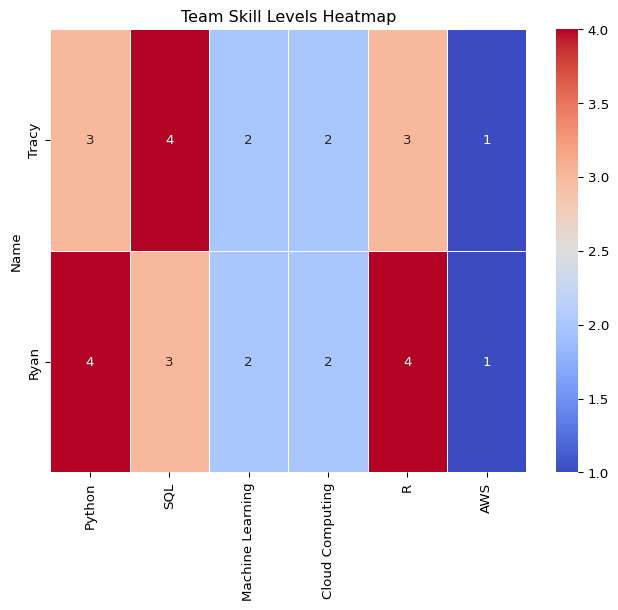
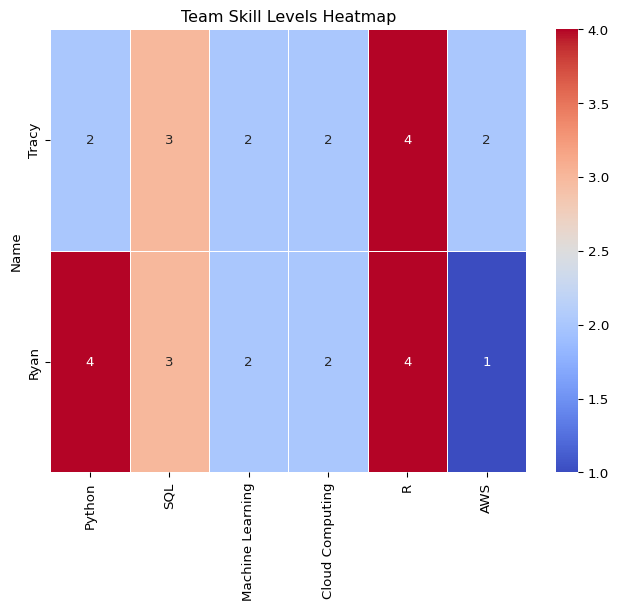
Edited skill_gap_analysis.qmd

Changed region(s): [[0.5841, 0.0311, 0.8608, 0.4361], [0.0615, 0.0311, 0.3382, 0.4361]]

diff --git a/_site/skill_gap_analysis.html b/_site/skill_gap_analysis.html
@@ -190,12 +190,12 @@ ul.task-list li input[type="checkbox"] {
 <tbody>
 <tr class="odd">
 <td data-quarto-table-cell-role="th">Tracy</td>
+<td>2</td>
 <td>3</td>
+<td>2</td>
+<td>2</td>
 <td>4</td>
 <td>2</td>
-<td>2</td>
-<td>3</td>
-<td>1</td>
 </tr>
 <tr class="even">
 <td data-quarto-table-cell-role="th">Ryan</td>
@@ -253,12 +253,12 @@ ul.task-list li input[type="checkbox"] {
 <tbody>
 <tr class="odd">
 <td data-quarto-table-cell-role="th">Tracy</td>
+<td>2</td>
 <td>3</td>
+<td>2</td>
+<td>2</td>
 <td>4</td>
 <td>2</td>
-<td>2</td>
-<td>3</td>
-<td>1</td>
 <td>0</td>
 </tr>
 <tr class="even">
@@ -279,11 +279,11 @@ ul.task-list li input[type="checkbox"] {
 </div>
 <section id="compare-team-skills-to-industry-requirements" class="level2">
 <h2 class="anchored" data-anchor-id="compare-team-skills-to-industry-requirements">Compare Team Skills to Industry Requirements</h2>
-<p>Working in the IT department requires various technological skills, ones that Ryan and Tracy will need to meet industry requirements. The top skills in this line of work include experience with Python, SQL, Machine Learning, Cloud Computing, R, Docker, and AWS. Ryan and Tracy have good experience using Python, SQL, and R, but need to improve their efficiency in Machine Learning, and Cloud Computing, while familiarizing themselves with Docker and AWS, where they have little to no experience.</p>
+<p>Working in the IT department requires a diverse set of skills that Ryan and Tracy will need to to develop to meet industry standards. The top skills in this line of work include experience with Python, SQL, Machine Learning, Cloud Computing, R, Docker, and AWS. While Ryan has solid experience with Python, SQL, and R, Tracy has only limited experience with Python. Both need to improve their proficiency in Machine Learning, Cloud Computing, and AWS while familiarizing themselves with Docker, where they currently have no experience.</p>
 </section>
 <section id="improvement-plan" class="level2">
 <h2 class="anchored" data-anchor-id="improvement-plan">Improvement Plan</h2>
-<p>Although there is room for improvement in their Python, SQL, and R skills, Ryan and Tracy should prioritize enhancing their efficiency in Machine Learning, Cloud Computing, AWS, and Docker, to achieve a well-rounded skill set.</p>
+<p>Although there is room for improvement in their Python, SQL, and R skills, Ryan and Tracy should prioritize enhancing their efficiency in Machine Learning, Cloud Computing, AWS, and Docker to achieve a well-rounded skill set.</p>
 
 
 </section>
